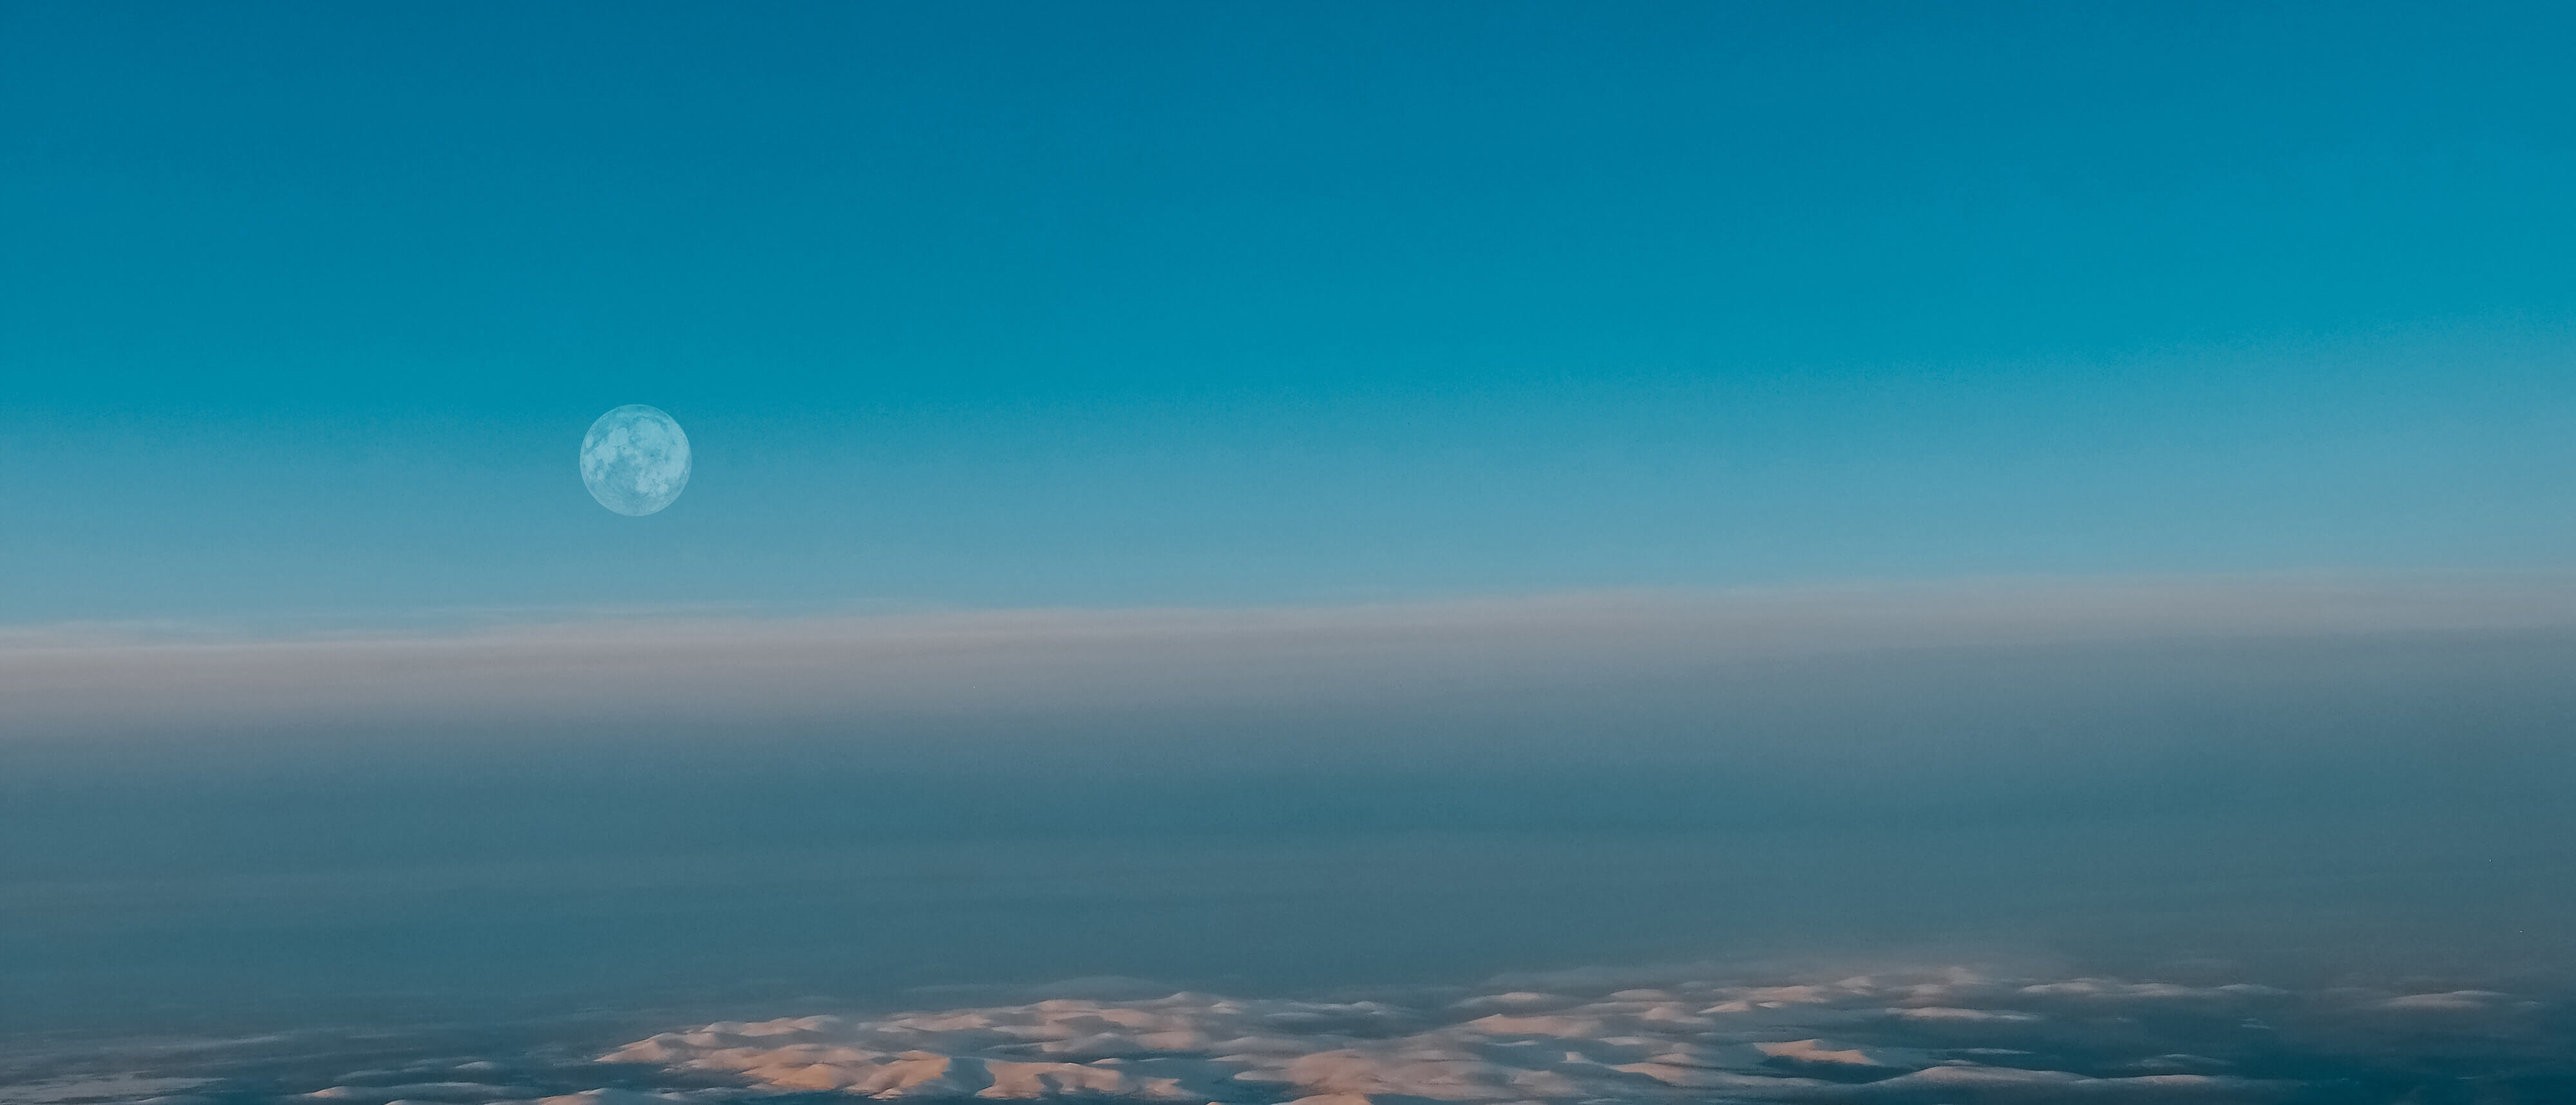
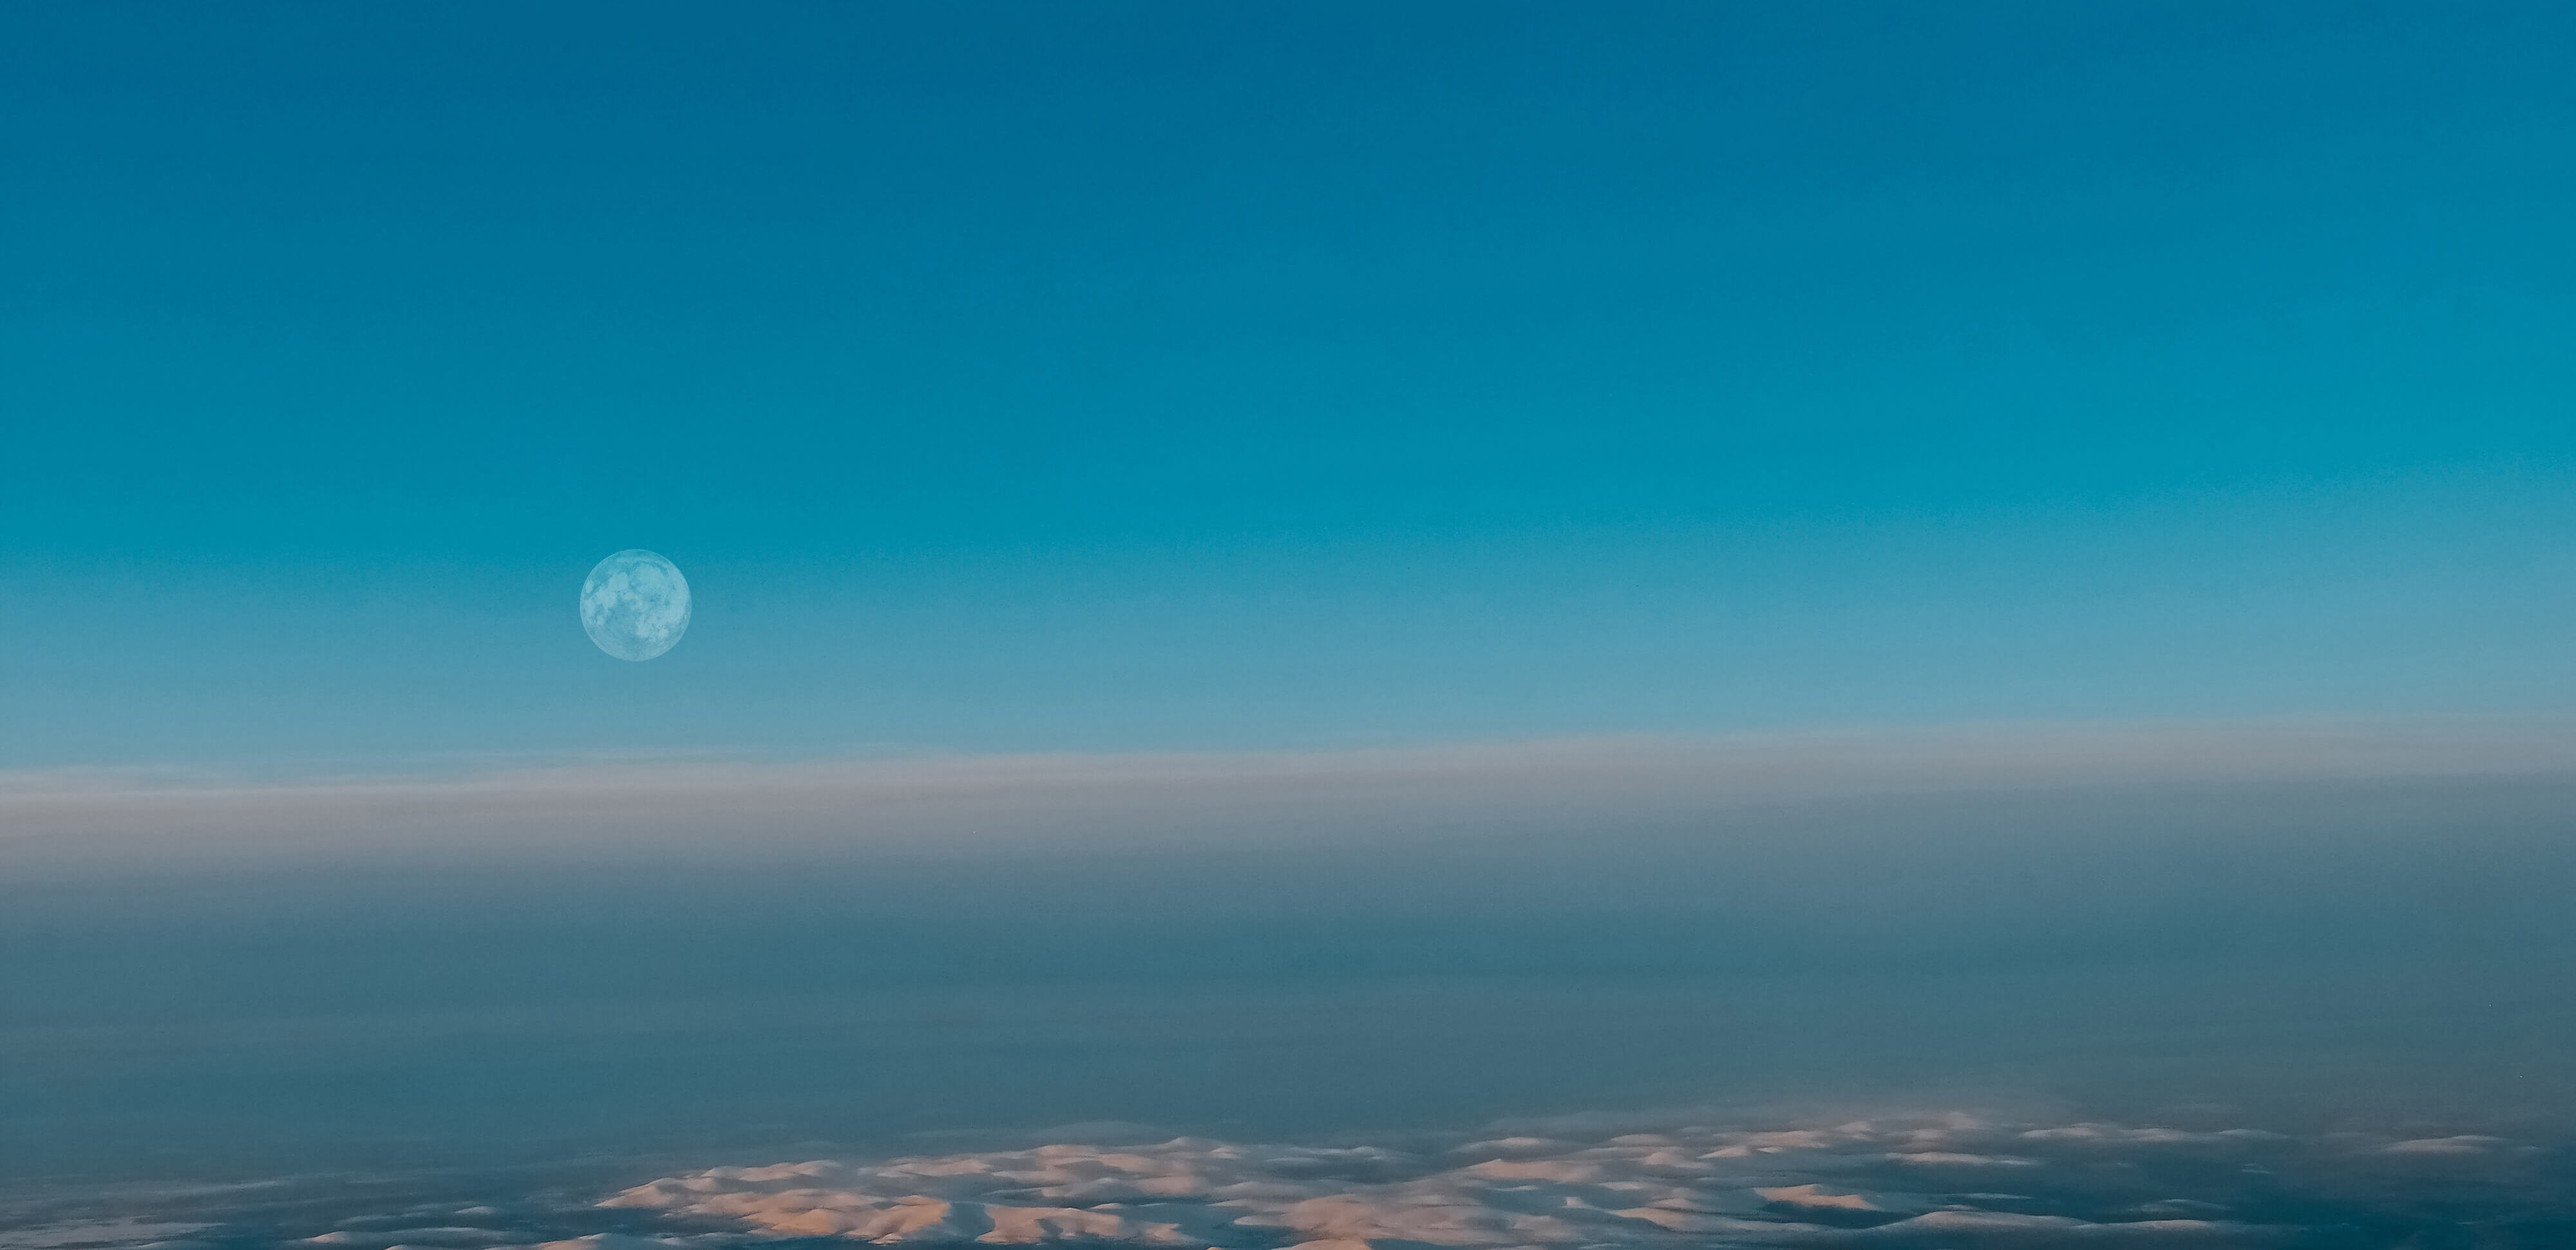
ferer

diff --git a/index.html b/index.html
@@ -38,10 +38,8 @@ body{
 
         -webkit-animation-direction: alternate;
         animation-direction: alternate;
-		
-		object-fit: cover;
-	
-  height: 100%;
+
+
 }
 
 p {
